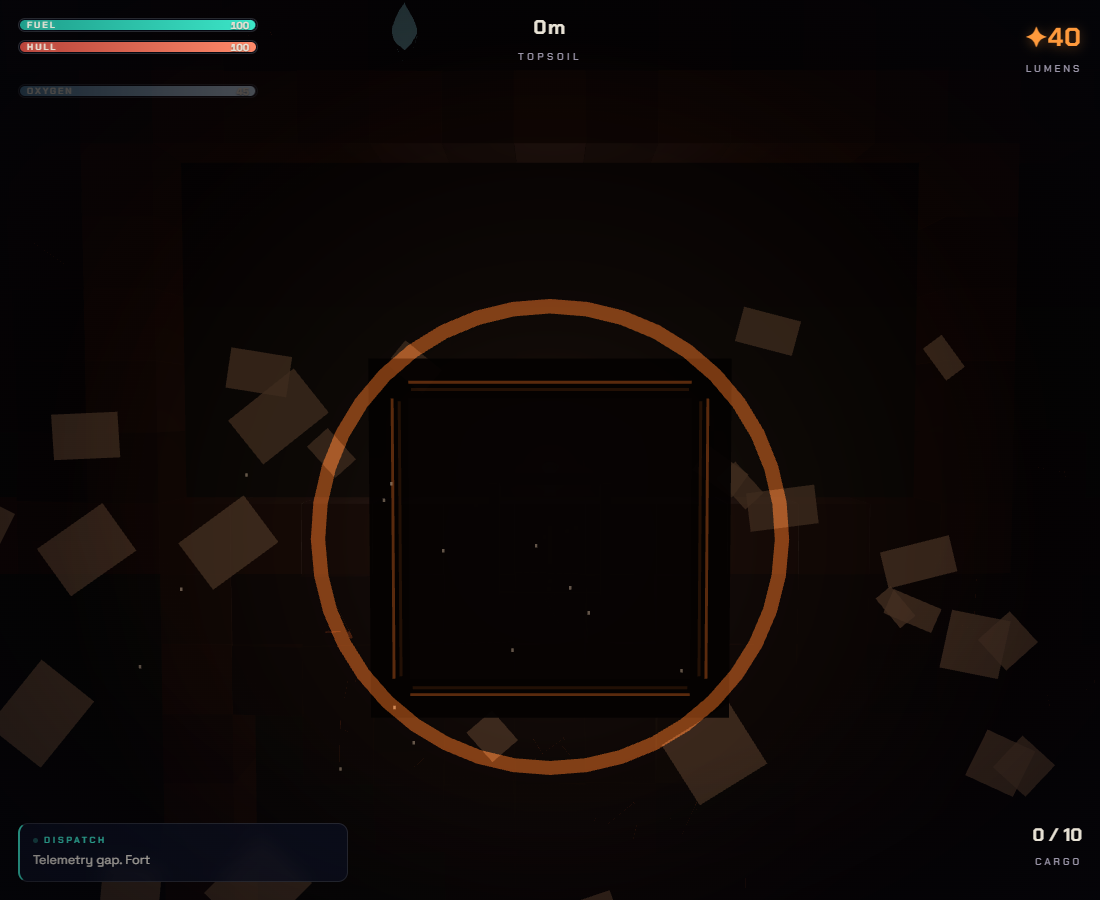
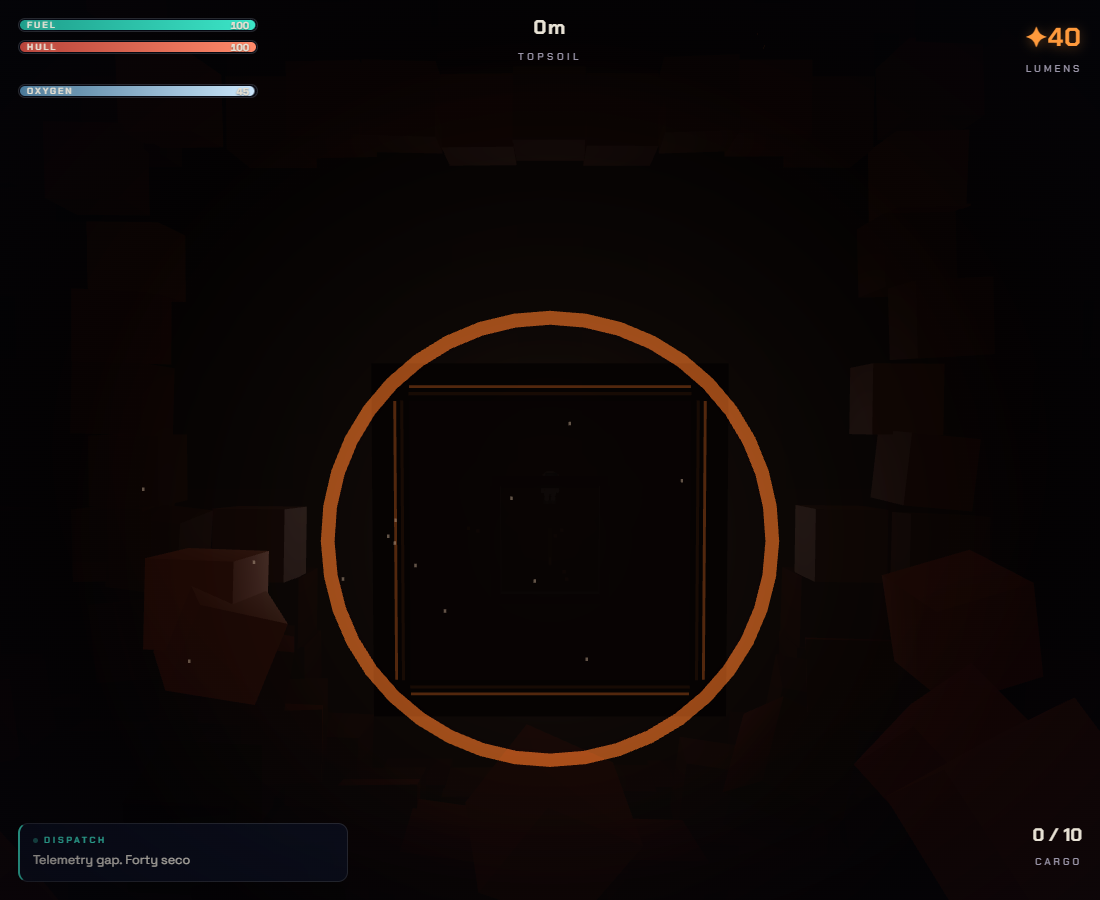
The real bricks fly
No more painted debris: the fold now throws the ACTUAL mine.
ChunkField.foldShatter takes every rock instance within nine tiles of
the stone and hurls it out of the screen — tumbling, ore still in its
face — on a wave running outward from the mark, riding the same k as
the throat. The iris is depth-tested and sits just in front of the
terrain, so the mine dims behind it and every brick that tears loose
crosses the plane and pops out into your face. Coming home runs it
backward: the bricks fly in and lock, and the restore is the dirty-
chunk rebuild the drill already trusts — every brick home to the
millimetre, nothing bookkept.

diff --git a/src/fx/fold.ts b/src/fx/fold.ts
@@ -49,11 +49,15 @@ export function buildFoldThroat(g: GlyphDef, hue: number, interior = false): Fol
   let irisMat: THREE.MeshBasicMaterial | null = null;
   let haloMat: THREE.MeshBasicMaterial | null = null;
   if (!interior) {
+    // depth-tested and pushed just in front of the terrain: the mine dims
+    // behind it, and every REAL brick that tears loose crosses its plane
+    // and pops out in front — flying out of the darkness at the glass
     irisMat = mk(new THREE.MeshBasicMaterial({
-      color: 0x020104, transparent: true, opacity: 0, depthTest: false, depthWrite: false,
+      color: 0x020104, transparent: true, opacity: 0, depthTest: true, depthWrite: false,
     }));
     const iris = new THREE.Mesh(gm(new THREE.PlaneGeometry(90, 60)), irisMat);
     iris.renderOrder = ro - 2;
+    iris.position.z = 1.5;
     group.add(iris);
     haloMat = mk(new THREE.MeshBasicMaterial({
       map: softDisc(), color: 0x3a2c20, transparent: true, opacity: 0,
@@ -64,29 +68,8 @@ export function buildFoldThroat(g: GlyphDef, hue: number, interior = false): Fol
     group.add(halo);
   }
 
-  // THE MINE FALLS OUT OF THE WORLD: pieces of the dig face let go and
-  // tumble into the dark as the iris closes — and on the way out the same
-  // pieces fly home and lock, the world recompiling around you
-  const shedMat = !interior ? mk(new THREE.MeshBasicMaterial({
-    color: 0x4a3b2e, transparent: true, opacity: 0, depthTest: false, depthWrite: false,
-  })) : null;
-  const shed: { mesh: THREE.Mesh; x: number; y: number; ox: number; oy: number; r: number; ph: number }[] = [];
-  if (shedMat) {
-    for (let i = 0; i < 36; i++) {
-      const h1 = Math.sin(i * 12.9898) * 43758.5453; const r1 = h1 - Math.floor(h1);
-      const h2 = Math.sin(i * 78.233) * 12543.21; const r2 = h2 - Math.floor(h2);
-      const h3 = Math.sin(i * 39.425) * 26711.9; const r3 = h3 - Math.floor(h3);
-      const ang = r1 * Math.PI * 2;
-      const rad = 2.6 + r2 * 6.5;
-      const w = 0.55 + r3 * 0.7;
-      const d = new THREE.Mesh(gm(new THREE.PlaneGeometry(w, w * (0.5 + r1 * 0.5))), shedMat);
-      const x = Math.cos(ang) * rad, y = Math.sin(ang) * rad * 0.7;
-      d.position.set(x, y, 0);
-      d.renderOrder = ro - 1;
-      shed.push({ mesh: d, x, y, ox: Math.cos(ang) * 4, oy: -3 - r2 * 5, r: (r3 - 0.5) * 3.2, ph: r1 * 9 });
-      group.add(d);
-    }
-  }
+  // (the mine itself breaks apart out in main — ChunkField.foldShatter
+  //  throws the REAL bricks; this kit only paints the throat)
 
   // the black behind the world
   const backMat = mk(new THREE.MeshBasicMaterial({
@@ -201,18 +184,6 @@ export function buildFoldThroat(g: GlyphDef, hue: number, interior = false): Fol
     const kk = Math.max(0, Math.min(1, k));
     if (irisMat) irisMat.opacity = settle(kk * 1.6) * 0.9;
     if (haloMat) haloMat.opacity = settle(kk * 1.6) * 0.5;
-    if (shedMat) {
-      // visible while the world is mid-exchange, gone at either end
-      shedMat.opacity = Math.sin(Math.min(1, kk * 1.25) * Math.PI) * 0.95;
-      for (const p2 of shed) {
-        const fall = settle(kk);
-        p2.mesh.position.set(
-          p2.x + p2.ox * fall,
-          p2.y + p2.oy * fall * fall,
-          0);
-        p2.mesh.rotation.z = p2.r * fall + Math.sin(time * 1.3 + p2.ph) * 0.05;
-      }
-    }
     backMat.opacity = Math.min(1, kk * 4) * 0.97;
     // the flare: born in the first sixth, gone by the third
     const fl = kk / 0.32;

diff --git a/src/world/chunks.ts b/src/world/chunks.ts
@@ -225,6 +225,49 @@ class Chunk {
     }
   }
 
+  /**
+   * THE FOLD (SPEC-FOLD.md): the ACTUAL bricks of the mine break loose.
+   * Every rock instance within `r` of the stone is thrown toward the
+   * camera on a wave running outward — tumbling, shedding formation —
+   * and its ore flies with it. k 0..1 drives the whole shatter; the
+   * field restores by marking the chunk dirty (the same trick clearChew
+   * uses), so the rebuild puts every brick home to the millimetre.
+   */
+  foldShatter(fx: number, fy: number, r: number, k: number): boolean {
+    let touched = false;
+    const x0 = this.cx * CHUNK, y0 = this.cy * CHUNK;
+    for (const [local, rid] of this.rockIds) {
+      const lx = local % CHUNK, ly = (local / CHUNK) | 0;
+      const x = x0 + lx, y = y0 + ly;
+      const wx = x + 0.5, wy = -(y + 0.5);
+      const d = Math.hypot(wx - fx, wy - fy);
+      if (d > r) continue;
+      // the wave runs OUTWARD from the stone: near bricks let go first
+      const f = Math.max(0, Math.min(1, k * (1 + r * 0.09) - d * 0.09));
+      if (f <= 0) continue;
+      touched = true;
+      const e = 1 - Math.pow(1 - f, 3);
+      const h1 = cellHash(x, y, 31), h2 = cellHash(x, y, 37), h3 = cellHash(x, y, 41);
+      const ux = d > 0.01 ? (wx - fx) / d : 0, uy = d > 0.01 ? (wy - fy) / d : 0;
+      tmpP.set(
+        wx + ux * e * (1.5 + h1 * 2.5),
+        wy + uy * e * (1.2 + h2 * 2) - e * e * 2.5,
+        e * (6 + h3 * 13));                    // out of the screen, past the glass
+      tmpE.set((h1 - 0.5) * 2.6 * e, (h2 - 0.5) * 2.6 * e, (h3 - 0.5) * 2.6 * e);
+      tmpQ.setFromEuler(tmpE);
+      tmpS.setScalar(1 - e * 0.12);
+      tmpM.compose(tmpP, tmpQ, tmpS);
+      this.rock.setMatrixAt(rid, tmpM);
+      const gid = this.gemIds.get(local);
+      if (gid) this.gems[gid.c].setMatrixAt(gid.i, tmpM);
+    }
+    if (touched) {
+      this.rock.instanceMatrix.needsUpdate = true;
+      for (const m of this.gems) m.instanceMatrix.needsUpdate = true;
+    }
+    return touched;
+  }
+
   /** shrink + jitter the tile being drilled */
   chew(x: number, y: number, progress: number, time: number): void {
     const local = (y - this.cy * CHUNK) * CHUNK + (x - this.cx * CHUNK);
@@ -314,6 +357,21 @@ export class ChunkField {
   chew(x: number, y: number, progress: number, time: number): void {
     const ch = this.live.get(this.key(Math.floor(x / CHUNK), Math.floor(y / CHUNK)));
     ch?.chew(x, y, progress, time);
+  }
+
+  private foldTouched = new Set<number>();
+
+  /** drive the fold's brick-shatter across every live chunk */
+  foldShatter(fx: number, fy: number, r: number, k: number): void {
+    for (const [key, ch] of this.live) {
+      if (ch.foldShatter(fx, fy, r, k)) this.foldTouched.add(key);
+    }
+  }
+
+  /** every displaced brick goes home: the touched chunks simply rebuild */
+  foldRestore(): void {
+    for (const k of this.foldTouched) this.dirty.add(k);
+    this.foldTouched.clear();
   }
 
   /** restore any half-chewed tile after a canceled drill (fuel ran out) */

diff --git a/src/main.ts b/src/main.ts
@@ -168,6 +168,8 @@ class Game {
     kind: 'in' | 'out' | 'abort';
     id: string; t: number; dur: number;
     sx: number; sy: number;
+    /** the throat's current openness — the brick-shatter rides the same k */
+    k: number;
     throat: FoldThroat;
     cam0: { x: number; y: number; z: number };
   } | null = null;
@@ -525,7 +527,7 @@ class Game {
     this.scene.add(throat.group);
     const c = this.cam.camera.position;
     this.fold = {
-      kind, id, t: 0,
+      kind, id, t: 0, k: kind === 'out' ? 1 : 0,
       dur: (kind === 'out' ? 1.5 : short ? 1 : 2) * PULSE,
       sx, sy, throat,
       cam0: kind === 'out'
@@ -544,7 +546,8 @@ class Game {
     const p = Math.max(0, Math.min(1, f.t / f.dur));
     // stone settles: heavy ease-out, the guild's own curve
     const k = 1 - Math.pow(1 - p, 3);
-    f.throat.update(f.kind === 'out' ? 1 - k : k, this.time);
+    f.k = f.kind === 'out' ? 1 - k : k;
+    f.throat.update(f.k, this.time);
     if (!this.reducedMotion) {
       // the only dolly in the game: drawn through the face, or set back down
       const toward = f.kind === 'out' ? 1 - k : k;
@@ -556,13 +559,16 @@ class Game {
     if (f.kind === 'in' && f.t >= f.dur) {
       f.throat.dispose();
       this.fold = null;
+      this.chunks.foldRestore();
       this.enterVault(f.id);            // the hard cut, on the downbeat
     } else if (f.kind === 'abort' && f.t <= 0) {
       f.throat.dispose();
       this.fold = null;
+      this.chunks.foldRestore();
     } else if (f.kind === 'out' && f.t >= f.dur) {
       f.throat.dispose();
       this.fold = null;
+      this.chunks.foldRestore();
       this.cam.snap(this.pilot.px, this.pilot.py + 1, 15);
     } else if (f.t > f.dur * 2 + 1) {
       // the safety line: whatever stranded it, no fold outlives twice its
@@ -662,7 +668,11 @@ class Game {
   /** dispose any threshold still in motion — a fold may not outlive the
    *  moment the game changes rooms around it */
   private clearFold(): void {
-    if (this.fold) { this.fold.throat.dispose(); this.fold = null; }
+    if (this.fold) {
+      this.fold.throat.dispose();
+      this.fold = null;
+      this.chunks.foldRestore();
+    }
   }
 
   private enterInterior(): void {
@@ -3049,6 +3059,9 @@ class Game {
       this.cam.follow(dt, this.pilot.px, this.pilot.py, this.pilot.vx, this.pilot.vy, true);
     }
     this.chunks.update(Math.max(0, Math.floor(-this.pilot.py)), this.time);
+    // THE MINE BREAKS APART: the real bricks fly, after the chunk pass so
+    // nothing reposes them back this frame
+    if (this.fold) this.chunks.foldShatter(this.fold.sx, this.fold.sy, 9, this.fold.k);
     this.atmosphere.update(Math.floor(-this.pilot.py));
 
     this.audio.update(dt, {
